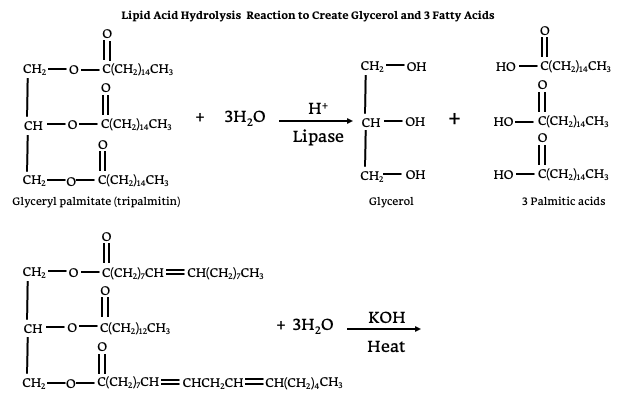
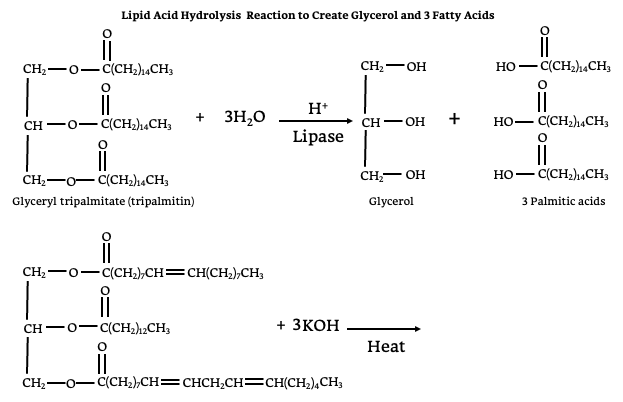
Batch B1 slides: patch Slides 21, 22, 48, 49, 51, 52; stage alt-text edits
Neo-Synephrine CH2, equilibrium arrows for weak bases, 3 H2 / 3 Br2,
3 KOH / 3 LiOH in the saponification practice, glyceryl tripalmitate.
Page alt-text edits staged for after merge (Pages serves main).

Changed region(s): [[0.0915, 0.4776, 0.305, 0.5373], [0.488, 0.7761, 0.549, 0.8358], [0.5795, 0.7761, 0.6709, 0.806]]

diff --git a/tools/batchB1_slides_build.py b/tools/batchB1_slides_build.py
@@ -1,0 +1,26 @@
+"""Batch B1 slides: alt text + cache-busting src for the instructor's slides patched in figures/ (2026-11-12).
+Publish only after the slide PNGs are on main (GitHub Pages serves main)."""
+import json
+L = 'pages/live/'
+E = {}
+def e(p, old, new, n=1, note=''): E.setdefault(p, []).append({'old': old, 'new': new, 'count': n, 'note': note})
+V = '?v=20261112'
+for p, s in [('597121', 'Slide21'), ('597123', 'Slide22'), ('597145', 'Slide48'), ('597145', 'Slide49'), ('597145', 'Slide51'), ('597145', 'Slide52')]:
+    e(p, f'figures/{s}.png"', f'figures/{s}.png{V}"', 1, f'{s} cache-bust')
+e('597123', 'First: ammonia, NH3, plus H2O gives the ammonium ion', 'First: ammonia, NH3, plus H2O, with an equilibrium (double half-arrow) arrow, gives the ammonium ion', 1, 'Slide22 alt')
+e('597123', 'Second: methylamine, CH3-NH2, plus H2O gives the methylammonium ion', 'Second: methylamine, CH3-NH2, plus H2O, again with an equilibrium arrow, gives the methylammonium ion', 1, 'Slide22 alt')
+e('597123', 'Third: methylamine plus HCl gives', 'Third: methylamine plus HCl, with a one-way arrow, gives', 1, 'Slide22 alt')
+e('597145', 'Glyceryl palmitate (tripalmitin) plus 3 H2O', 'Glyceryl tripalmitate (tripalmitin) plus 3 H2O', 1, 'Slide48 alt')
+e('597145', 'and a chain with two cis double bonds, plus 3 H2O with KOH and heat over the arrow.', 'and a chain with two cis double bonds, plus 3 KOH with heat under the arrow.', 1, 'Slide48 alt')
+e('597145', 'Glyceryl palmitate (tripalmitin) plus 3 NaOH', 'Glyceryl tripalmitate (tripalmitin) plus 3 NaOH', 1, 'Slide49 alt')
+e('597145', 'on glycerol, plus Br2, arrow to the product', 'on glycerol, plus 3 Br2, arrow to the product', 1, 'Slide51 alt')
+e('597145', 'the same glyceryl trioleate plus 3 H2O with LiOH and heat over the arrow.', 'the same glyceryl trioleate plus 3 LiOH with heat under the arrow.', 1, 'Slide51 alt')
+e('597145', 'C(=O)(CH2)7CH=CH(CH2)7CH3, plus H2 with Ni written over the arrow.', 'C(=O)(CH2)7CH=CH(CH2)7CH3, plus 3 H2 with Ni written over the arrow.', 1, 'Slide52 alt')
+bad = 0
+for p, es in E.items():
+    t = open(L + p + '.html', encoding='utf-8').read()
+    for x in es:
+        c = t.count(x['old'])
+        if c != x['count']: bad += 1; print('MISMATCH', p, x['note'], c)
+json.dump(E, open('tools/batchB1_slides_fixes_2026-11-12.json', 'w'), ensure_ascii=False, indent=1)
+print(sum(len(v) for v in E.values()), 'edits;', bad, 'mismatches')

diff --git a/tools/ISSUE_LEDGER.md b/tools/ISSUE_LEDGER.md
@@ -401,3 +401,10 @@ Published on LibreTexts (18 pages, 117 replacements; `tools/pka_removal_fixes_20
     - The instructor's slides need the same kind of fixes: Slide21 (Neo-Synephrine), Slide22 (equilibrium arrows), and Slides 48/49/51/52 (3 H2, 3 Br2, 3 KOH/LiOH).
     - Ball Fig 12.2.3 (19.7a) still reads "1.08 mm", with wrong cytosine and purine bonds.
     - The 1.8.11 caption credits Ball, but the file is an OpenStax image (CNX_Chem); check the source in batch E.
+- 2026-11-12, batch B1, part 2: the instructor's own slide PNGs were patched (by request) in `figures/`, using glyphs copied from the same slides so the lettering matches.
+  - Slide21: Neo-Synephrine "CHCH3" → "CHCH2".
+  - Slide22: the NH3 + H2O and CH3NH2 + H2O reactions now have equilibrium arrows; the HCl reaction stays one-way.
+  - Slide52: "+ H2" → "+ 3H2". Slide51: "+ Br2" → "+ 3Br2", and the practice reaction "+ 3H2O / LiOH" → "+ 3LiOH" with heat under the arrow.
+  - Slide48: the practice reaction "+ 3H2O / KOH" → "+ 3KOH" with heat under the arrow.
+  - Slides 48 and 49: "Glyceryl palmitate" → "Glyceryl tripalmitate" (the name used in 9.7; deferred from batch A).
+  - **Not yet live:** GitHub Pages serves `main`, so the new PNGs appear when the PR is merged. After that, publish `tools/batchB1_slides_fixes_2026-11-12.json` (built by `tools/batchB1_slides_build.py`; 15 edits on 597121, 597123 and 597145). It updates the alt text and adds `?v=20261112` to the slide srcs so cached copies refresh.
